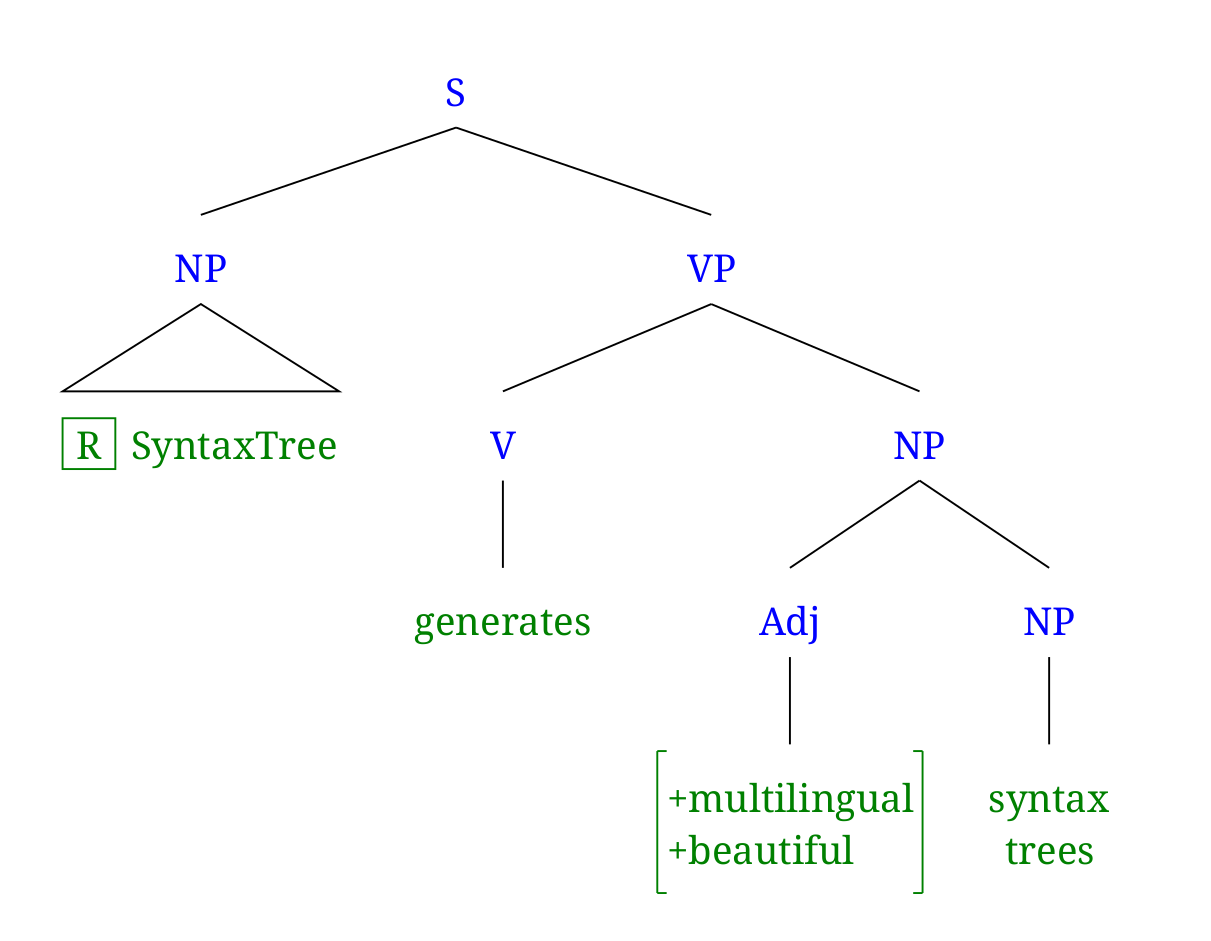
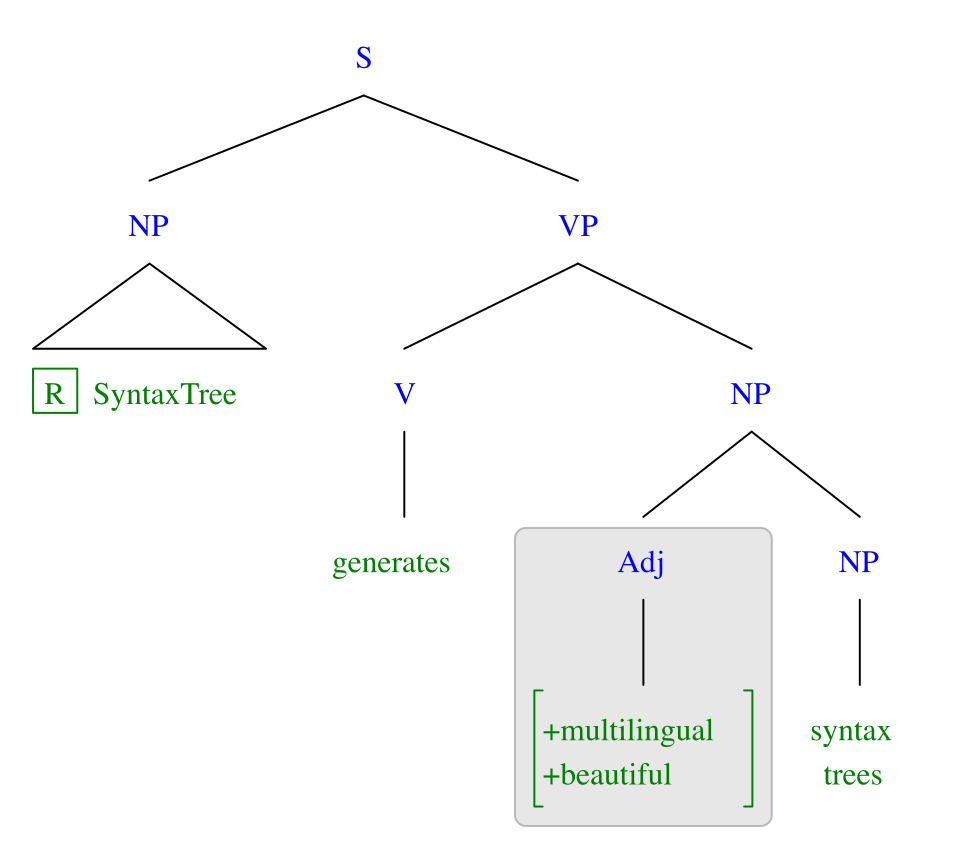
UI sample: demo region shade (%Adj); update sample image and About wording
- Add a region shade (%Adj) to the editor sample so the feature is shown on load
- Regenerate public/img/sample.png to match
- Shorten the region-shade What's new item (the live example now shows usage)
- Reword the apostrophe item (the curly glyph can't be shown inline in About)

diff --git a/app.rb b/app.rb
@@ -175,7 +175,7 @@ sample1 << "  [NP |R| SyntaxTree]"
 sample1 << "  [VP"
 sample1 << "    [V generates]"
 sample1 << "    [NP"
-sample1 << "      [Adj #\\+multilingual\\"
+sample1 << "      [%Adj #\\+multilingual\\"
 sample1 << "            \\+beautiful]"
 sample1 << "      [NP syntax\\"
 sample1 << "          trees]"

diff --git a/about.md b/about.md
@@ -12,8 +12,8 @@ The original version of RSyntaxTree was inspired by [phpSyntaxTree](http://ironc
 
 ### What's new
 
-* Region shade with `%` syntax: shade the whole subtree a node governs, e.g. c-command/binding domains (`[%@lightblue:VP ...]`) [June 2026]
-* Labels now use a smart (curly) apostrophe such as `T'` [June 2026]
+* Region shade with `%` syntax: shade the whole subtree a node governs [June 2026]
+* A straight apostrophe in a label is now rendered as a typographic (curly) apostrophe [June 2026]
 * Left-to-right tree layout (`Direction` option: Top to Bottom / Left to Right) [April 2026]
 * Per-node coloring with `@color:` syntax (named colors and hex colors) [January 2026]
 * Backslash `\` and bar `|` quick insert buttons added [June 2025]

diff --git a/about_ja.md b/about_ja.md
@@ -12,8 +12,8 @@ RSyntaxTreeのオリジナルバージョンは，André Esenbachによる[phpSy
 
 ### 最新の情報
 
-* `%`構文による領域シェード：ノードが支配する部分木全体を網掛け（c-command 領域・束縛領域など、`[%@lightblue:VP ...]`）[2026年6月]
-* ラベルの `T'` 等にスマートな（曲線の）アポストロフィを使用 [2026年6月]
+* `%`構文による領域シェード：ノードが支配する部分木全体を網掛け [2026年6月]
+* ラベル中の直線アポストロフィを，タイポグラフィ的な（曲線の）アポストロフィとして描画 [2026年6月]
 * 左から右へのツリーレイアウト（`方向`オプション：上から下 / 左から右）[2026年4月]
 * `@color:`構文によるノード別カラー指定（色名およびHEXカラー）[2026年1月]
 * バックスラッシュ `\` とバー `|` の簡単挿入ボタンを追加 [2025年6月]